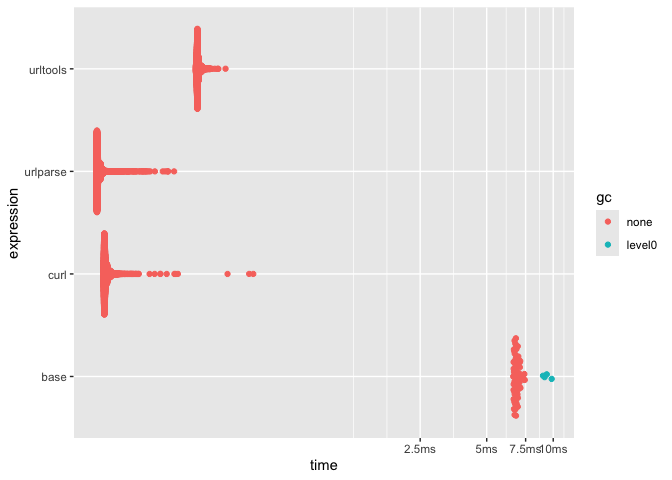
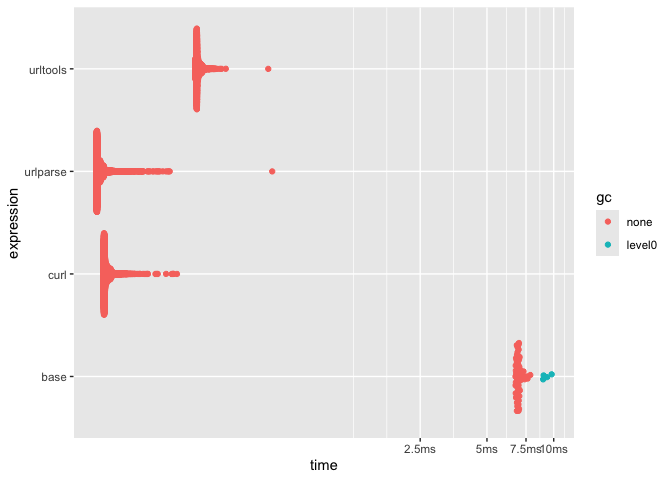
typo

diff --git a/README.md b/README.md
@@ -109,9 +109,9 @@ url_modify(url, scheme = "https", port = 1234, path = "foo/bar", query = "baz", 
 #> [1] "https://example.com:1234/foo/bar?baz#quux"
 ```
 
-Note: it is faster to use `url_modify` rather than then piping the
-`set_*` functions. This is because `urlparse` has to parse the url
-within each `set_*` to modify the url.
+Note: it is faster to use `url_modify` rather than piping the `set_*`
+functions. This is because `urlparse` has to parse the url within each
+`set_*` to modify the url.
 
 ``` r
 url <- "http://example.com"
@@ -126,8 +126,8 @@ bench::mark(
 #> # A tibble: 2 × 6
 #>   expression           min   median `itr/sec` mem_alloc `gc/sec`
 #>   <bch:expr>      <bch:tm> <bch:tm>     <dbl> <bch:byt>    <dbl>
-#> 1 piping            5.21µs   5.78µs   171115.        0B     17.1
-#> 2 single_function   1.68µs   1.84µs   524051.        0B      0
+#> 1 piping            5.49µs   5.86µs   167272.        0B     16.7
+#> 2 single_function   1.68µs   1.89µs   508334.        0B      0
 ```
 
 ## Benchmark:
@@ -146,19 +146,19 @@ url <- "https://user:pass@host.com:8000/path?query=1#fragment"
 #> # A tibble: 4 × 6
 #>   expression      min   median `itr/sec` mem_alloc `gc/sec`
 #>   <bch:expr> <bch:tm> <bch:tm>     <dbl> <bch:byt>    <dbl>
-#> 1 urlparse     1.76µs   1.97µs   473600.        0B      0  
-#> 2 httr2       64.58µs  70.03µs    13928.   560.9KB     19.6
-#> 3 curl        27.31µs  29.36µs    33024.   48.78KB     13.2
-#> 4 urltools   123.82µs 134.25µs     7164.    2.17MB     23.2
+#> 1 urlparse     1.72µs   1.84µs   509578.        0B      0  
+#> 2 httr2       64.53µs  67.49µs    14347.   560.9KB     19.5
+#> 3 curl         27.1µs  28.86µs    33953.   48.78KB     13.6
+#> 4 urltools   121.97µs 127.92µs     7550.    2.17MB     25.3
 
 show_relative(bm)
 #> # A tibble: 4 × 6
 #>   expression   min median `itr/sec` mem_alloc `gc/sec`
 #>   <bch:expr> <dbl>  <dbl>     <dbl>     <dbl>    <dbl>
-#> 1 urlparse     1      1       66.1        NaN      NaN
-#> 2 httr2       36.6   35.6      1.94       Inf      Inf
-#> 3 curl        15.5   14.9      4.61       Inf      Inf
-#> 4 urltools    70.2   68.2      1          Inf      Inf
+#> 1 urlparse     1      1       67.5        NaN      NaN
+#> 2 httr2       37.5   36.6      1.90       Inf      Inf
+#> 3 curl        15.7   15.6      4.50       Inf      Inf
+#> 4 urltools    70.8   69.3      1          Inf      Inf
 
 ggplot2::autoplot(bm)
 #> Loading required namespace: tidyr
@@ -183,19 +183,19 @@ string <- "abcdefghijklmnopqrstuvwxyzABCDEFGHIJKLMNOPQRSTUVWXYZ0123456789-._~`!@
 #> # A tibble: 4 × 6
 #>   expression      min   median `itr/sec` mem_alloc `gc/sec`
 #>   <bch:expr> <bch:tm> <bch:tm>     <dbl> <bch:byt>    <dbl>
-#> 1 urlparse     1.48µs    1.6µs   588255.      208B      0  
-#> 2 curl         2.25µs   2.42µs   397364.    3.06KB      0  
-#> 3 urltools     2.38µs   2.62µs   373601.    2.48KB      0  
-#> 4 base        80.24µs  86.39µs    10099.   28.59KB     21.5
+#> 1 urlparse     1.48µs   1.64µs   584332.      208B      0  
+#> 2 curl         2.25µs   2.42µs   401651.    3.06KB      0  
+#> 3 urltools     2.38µs   2.71µs   358707.    2.48KB      0  
+#> 4 base        80.36µs  87.86µs    11026.   28.59KB     23.6
 
 show_relative(bm)
 #> # A tibble: 4 × 6
 #>   expression   min median `itr/sec` mem_alloc `gc/sec`
 #>   <bch:expr> <dbl>  <dbl>     <dbl>     <dbl>    <dbl>
-#> 1 urlparse    1      1         58.2       1        NaN
-#> 2 curl        1.53   1.51      39.3      15.0      NaN
-#> 3 urltools    1.61   1.64      37.0      12.2      NaN
-#> 4 base       54.4   54.0        1       141.       Inf
+#> 1 urlparse    1      1         53.0       1        NaN
+#> 2 curl        1.53   1.48      36.4      15.0      NaN
+#> 3 urltools    1.61   1.65      32.5      12.2      NaN
+#> 4 base       54.4   53.6        1       141.       Inf
 
 ggplot2::autoplot(bm)
 ```
@@ -216,19 +216,19 @@ url <- paste0(sample(strsplit(string, "")[[1]], 1e4, replace = TRUE), collapse =
 #> # A tibble: 4 × 6
 #>   expression      min   median `itr/sec` mem_alloc `gc/sec`
 #>   <bch:expr> <bch:tm> <bch:tm>     <dbl> <bch:byt>    <dbl>
-#> 1 urlparse    85.53µs  86.51µs    11349.    15.7KB     0   
-#> 2 curl        92.21µs   93.6µs    10496.        0B     0   
-#> 3 urltools   241.41µs 245.59µs     4029.    15.7KB     0   
-#> 4 base         6.59ms   6.81ms      143.   332.6KB     7.96
+#> 1 urlparse    86.55µs   87.9µs    11020.    15.8KB     0   
+#> 2 curl        93.03µs  94.71µs    10331.        0B     0   
+#> 3 urltools   241.86µs 246.78µs     3991.    15.8KB     0   
+#> 4 base         6.72ms   6.93ms      141.   333.4KB     7.96
 
 show_relative(bm)
 #> # A tibble: 4 × 6
 #>   expression   min median `itr/sec` mem_alloc `gc/sec`
 #>   <bch:expr> <dbl>  <dbl>     <dbl>     <dbl>    <dbl>
-#> 1 urlparse    1      1         79.2       Inf      NaN
-#> 2 curl        1.08   1.08      73.2       NaN      NaN
-#> 3 urltools    2.82   2.84      28.1       Inf      NaN
-#> 4 base       77.1   78.8        1         Inf      Inf
+#> 1 urlparse    1      1         78.0       Inf      NaN
+#> 2 curl        1.07   1.08      73.2       NaN      NaN
+#> 3 urltools    2.79   2.81      28.3       Inf      NaN
+#> 4 base       77.7   78.8        1         Inf      Inf
 
 ggplot2::autoplot(bm)
 ```
